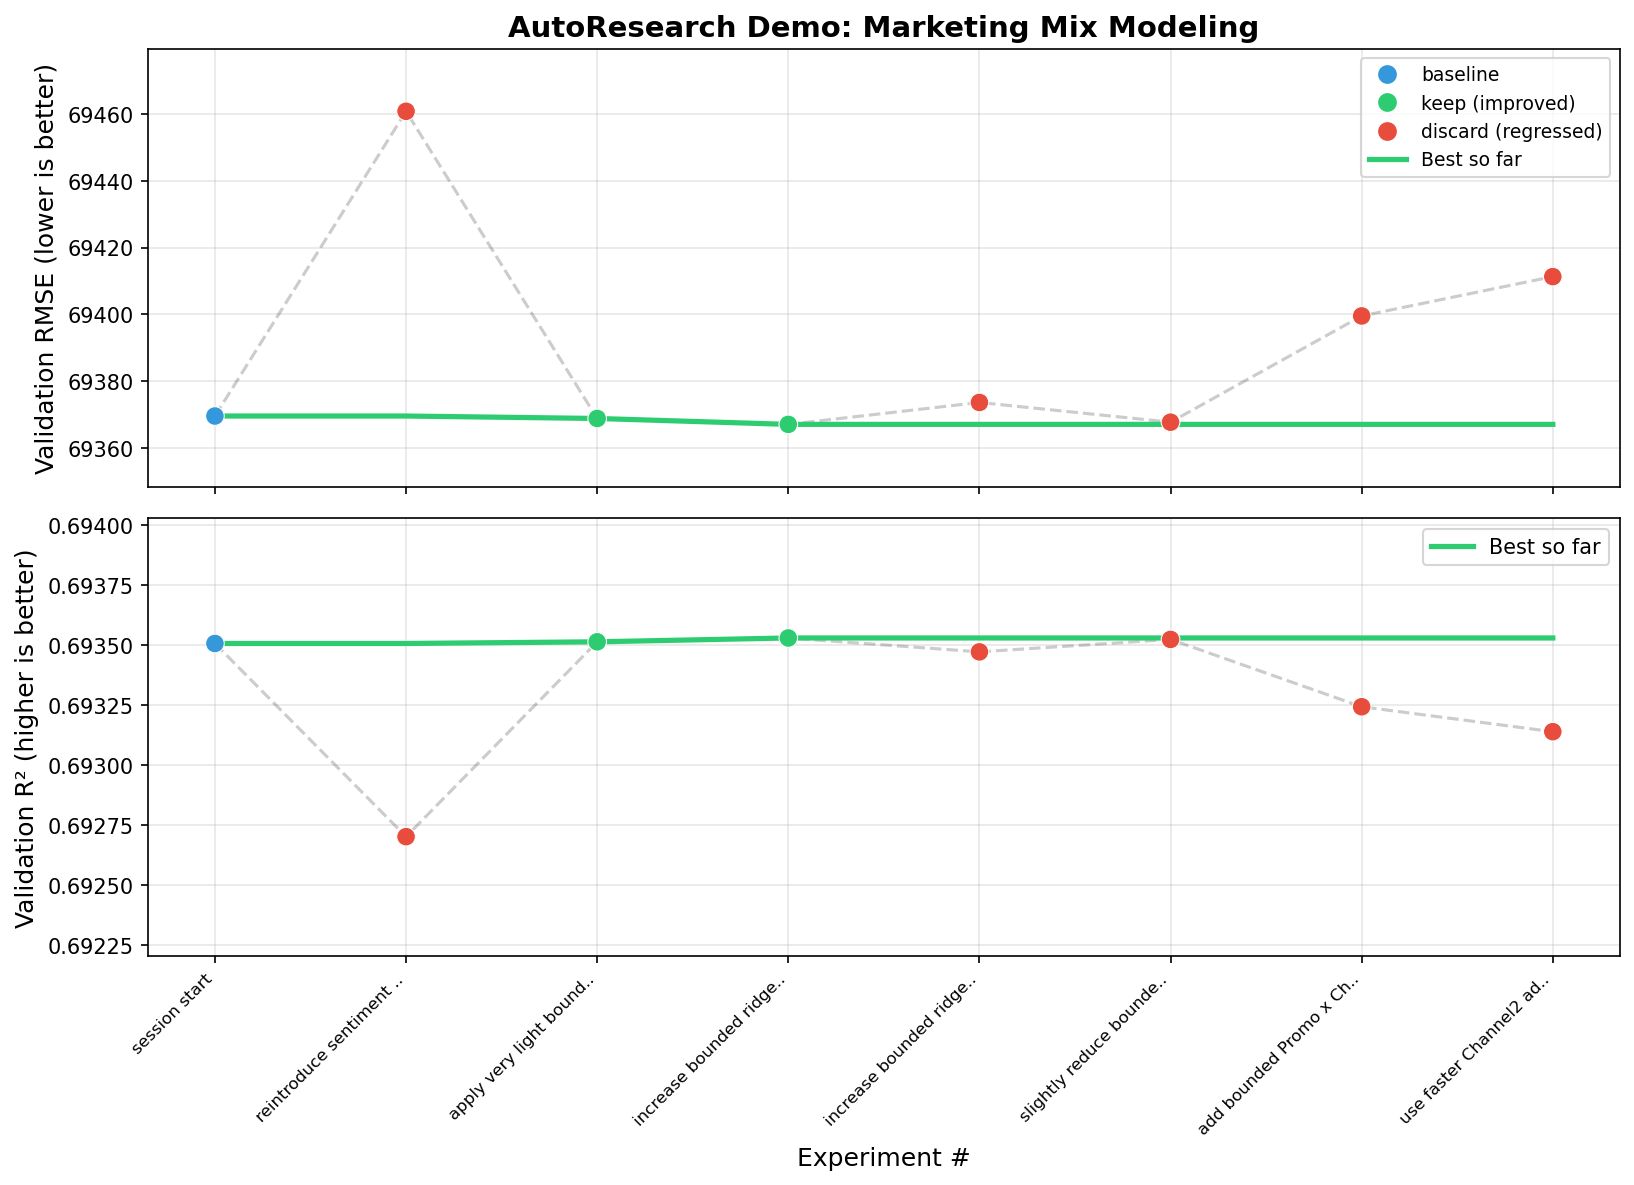
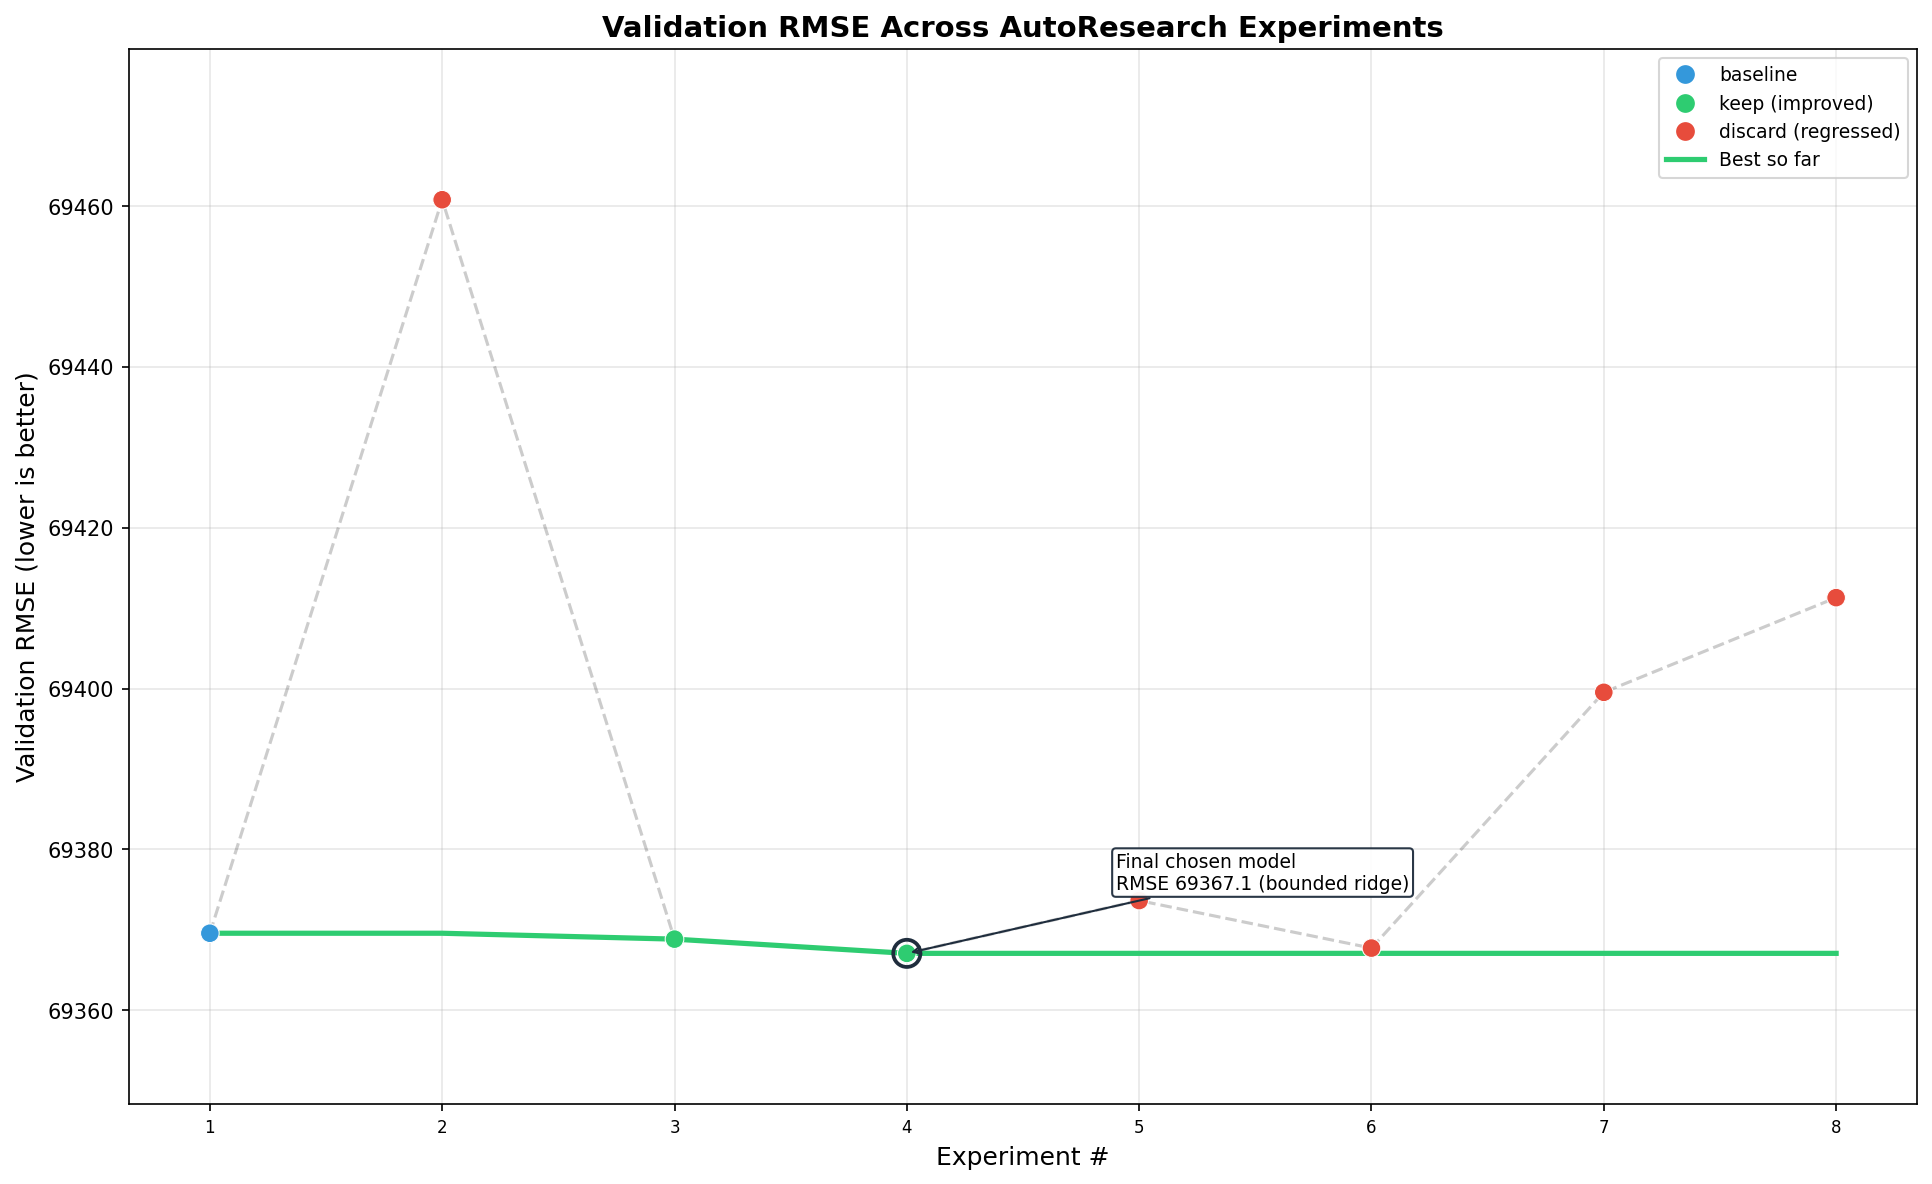
edits

diff --git a/prepare.py b/prepare.py
@@ -15,7 +15,7 @@ import textwrap
 SESSION_MARKER_FILE = ".current_session"
 RESULTS_FILE_TEMPLATE = "results_{session_id}.tsv"
 PERFORMANCE_FILE_TEMPLATE = "performance_{session_id}.png"
-CURATED_CUMULATIVE_SESSIONS = [3, 5, 7, 8]
+CURATED_CUMULATIVE_SESSIONS = [3, 5, 6, 7, 8, 9, 10]
 CURATED_CUMULATIVE_RESULTS_FILE = "results_cumulative.tsv"
 CURATED_CUMULATIVE_PERFORMANCE_FILE = "performance_cumulative.png"
 
@@ -151,6 +151,35 @@ def _short_phase_label(description, session_id=None, width=32):
 
     wrapped = textwrap.fill(label, width=width)
     return wrapped
+
+
+def _short_model_label(description):
+    label = description.strip()
+    replacements = [
+        ("current champion", "linear champion"),
+        ("current interaction champion", "interaction champion"),
+        ("no-sentiment interaction champion", "no-sentiment champion"),
+        ("bounded ridge alpha 1 no-sentiment interaction champion", "bounded ridge"),
+        ("bounded ridge alpha 0.5 no-sentiment interaction champion", "bounded ridge"),
+        ("bounded ridge alpha 2 no-sentiment interaction champion", "bounded ridge"),
+    ]
+    lowered = label.lower()
+    for old, new in replacements:
+        if lowered == old:
+            return new
+    if "ridge" in lowered:
+        return "bounded ridge" if "bounded" in lowered else "ridge"
+    if "lasso" in lowered:
+        return "lasso"
+    if "elasticnet" in lowered or "elastic net" in lowered:
+        return "elastic net"
+    if "interaction" in lowered:
+        return "interaction model"
+    if "carryover" in lowered or "adstock" in lowered:
+        return "carryover model"
+    if "baseline" in lowered:
+        return "baseline"
+    return textwrap.shorten(label, width=24, placeholder="...")
 
 
 def _significant_improvement_points(rmses, statuses, descriptions, session_ids=None):
@@ -434,8 +463,10 @@ def plot_results(results_file=None, save_path=None):
     visible_rmse = [r for r in rmses if r <= reasonable_max]
     rmse_min = min(visible_rmse)
     rmse_span = max(reasonable_max - rmse_min, 1.0)
-    rmse_pad = max(rmse_span * 0.2, 5.0)
-    ax1.set_ylim(rmse_min - rmse_pad, reasonable_max + rmse_pad)
+    rmse_pad_upper = max(rmse_span * 0.2, 5.0)
+    rmse_pad_lower = max(rmse_span * 0.06, 2.5)
+    ax1.set_ylim(rmse_min - rmse_pad_lower, reasonable_max + rmse_pad_upper)
+    y_top = reasonable_max + rmse_pad_upper
     for i, r in enumerate(rmses):
         if r > reasonable_max:
             ax1.annotate(
@@ -446,6 +477,30 @@ def plot_results(results_file=None, save_path=None):
                 "", xy=(i, reasonable_max * 1.08), xytext=(i, reasonable_max * 1.02),
                 arrowprops=dict(arrowstyle="->", color="#e74c3c", lw=1.5),
             )
+
+    # If the initial baseline sits above the plotted window, add a top-edge marker
+    # and label so the best-so-far line does not appear to start off-canvas.
+    if rmses and statuses and statuses[0] == "baseline" and rmses[0] > reasonable_max:
+        baseline_marker_y = y_top - rmse_pad_upper * 0.08
+        ax1.scatter(
+            [0],
+            [baseline_marker_y],
+            c=["#3498db"],
+            s=95,
+            zorder=4,
+            edgecolors="white",
+            linewidth=0.7,
+        )
+        ax1.annotate(
+            f"Initial baseline off-scale\nRMSE {rmses[0]:.1f}",
+            xy=(0, baseline_marker_y),
+            xytext=(1.0, y_top - rmse_pad_upper * 0.35),
+            fontsize=9,
+            ha="left",
+            va="center",
+            bbox=dict(boxstyle="round,pad=0.25", fc="white", ec="#3498db", alpha=0.95),
+            arrowprops=dict(arrowstyle="->", color="#3498db", lw=1.1),
+        )
 
     phase_points = _significant_improvement_points(rmses, statuses, descriptions, session_ids=session_ids)
     phase_y_positions = np.linspace(
@@ -465,8 +520,38 @@ def plot_results(results_file=None, save_path=None):
             arrowprops=dict(arrowstyle="->", color="#2c3e50", lw=1.0),
         )
 
+    chosen_idx = None
+    for idx in range(len(rmses) - 1, -1, -1):
+        if statuses[idx] in {"keep", "baseline"} and rmses[idx] == min(best_so_far):
+            chosen_idx = idx
+            break
+
+    if chosen_idx is not None:
+        chosen_x = chosen_idx
+        chosen_y = rmses[chosen_idx]
+        chosen_label = _short_model_label(descriptions[chosen_idx])
+        ax1.scatter(
+            [chosen_x],
+            [chosen_y],
+            s=170,
+            facecolors="none",
+            edgecolors="#1f2d3d",
+            linewidth=1.8,
+            zorder=5,
+        )
+        ax1.annotate(
+            f"Final chosen model\nRMSE {chosen_y:.1f} ({chosen_label})",
+            xy=(chosen_x, chosen_y),
+            xytext=(chosen_x + 0.9, chosen_y + rmse_span * 0.08),
+            fontsize=9,
+            ha="left",
+            va="bottom",
+            bbox=dict(boxstyle="round,pad=0.2", fc="white", ec="#1f2d3d", alpha=0.95),
+            arrowprops=dict(arrowstyle="->", color="#1f2d3d", lw=1.0),
+        )
+
     ax1.set_ylabel("Validation RMSE (lower is better)", fontsize=12)
-    ax1.set_title("AutoResearch Demo: Marketing Mix Modeling", fontsize=14, fontweight="bold")
+    ax1.set_title("Validation RMSE Across AutoResearch Experiments", fontsize=14, fontweight="bold")
     ax1.grid(True, alpha=0.3)
 
     tick_step = max(1, len(rmses) // 10)